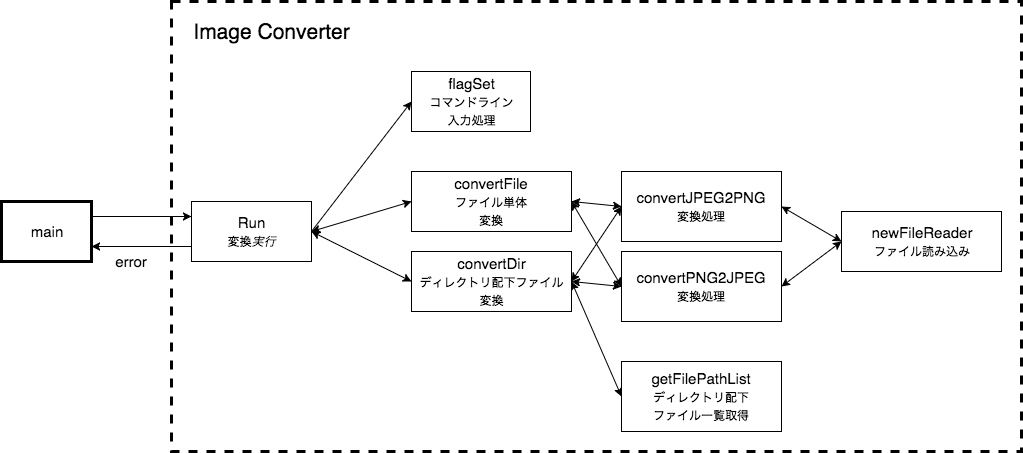
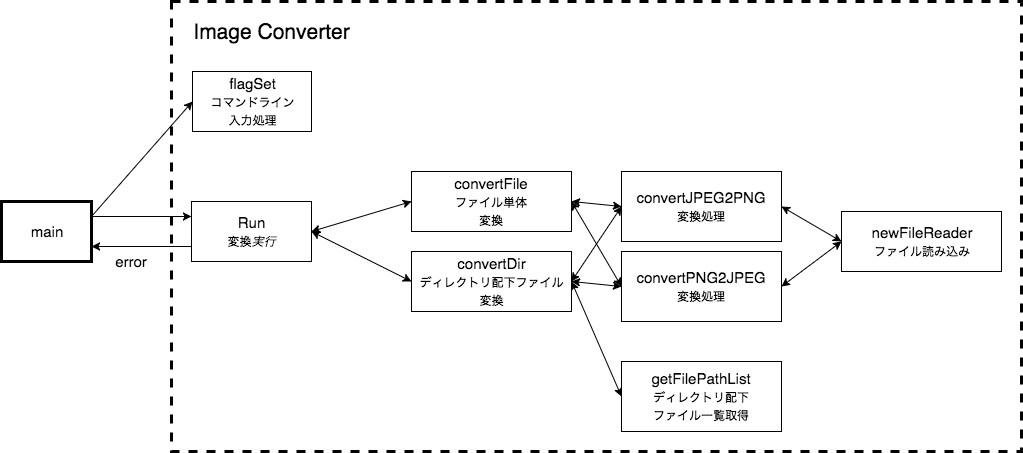
[update] imgconverter 初期化分離

Changed region(s): [[0.3939, 0.1545, 0.5152, 0.2781], [0.1818, 0.1545, 0.2727, 0.2781]]

diff --git a/kadai1/shirobrak/imgconverter/imgconverter.go b/kadai1/shirobrak/imgconverter/imgconverter.go
@@ -27,27 +27,8 @@ type ImageConverterError struct {
 	code int
 }
 
-// Run converts the Image Files.
-func (ic *ImageConverter) Run() error {
-
-	// 初期化
-	ic.flagSet()
-
-	switch mode := ic.mode; mode {
-	case "d":
-		if err := ic.convertDir(); err != nil {
-			return err
-		}
-	case "f":
-		if err := ic.convertFile(); err != nil {
-			return err
-		}
-	}
-	return nil
-}
-
-// flagSet Funtion sets params inputted in cmd line.
-func (ic *ImageConverter) flagSet() {
+// Init Funtion sets params inputted in cmd line.
+func (ic *ImageConverter) Init() {
 
 	// define option command
 	flag.StringVar(&ic.srcExt, "src", "jpg", "変換元のファイルフォーマット [ jpeg, jpg, png ]")
@@ -61,6 +42,22 @@ func (ic *ImageConverter) flagSet() {
 	ic.srcName = flag.Arg(0)
 
 	return
+}
+
+// Run converts the Image Files.
+func (ic *ImageConverter) Run() error {
+
+	switch mode := ic.mode; mode {
+	case "d":
+		if err := ic.convertDir(); err != nil {
+			return err
+		}
+	case "f":
+		if err := ic.convertFile(); err != nil {
+			return err
+		}
+	}
+	return nil
 }
 
 // Error Function outputs error message related to ImageConverter

diff --git a/kadai1/shirobrak/main.go b/kadai1/shirobrak/main.go
@@ -11,6 +11,9 @@ func main() {
 	// 画像コンバータのインスタンス作成
 	imgConverter := new(imgconverter.ImageConverter)
 
+	// 初期化
+	imgConverter.Init()
+
 	// 画像のコンバート処理
 	if err := imgConverter.Run(); err != nil {
 		log.Fatal(err)
